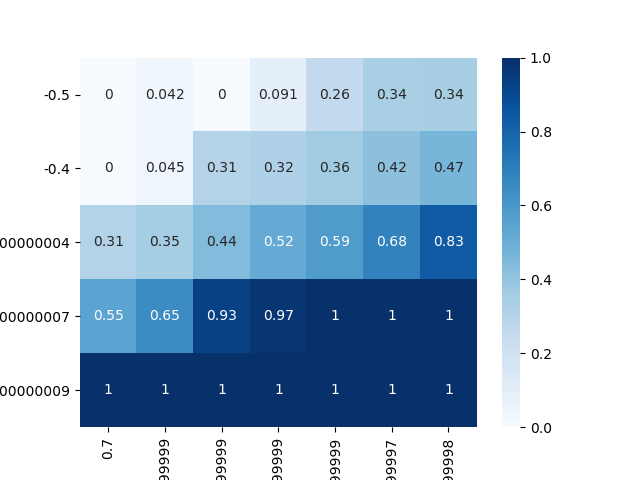
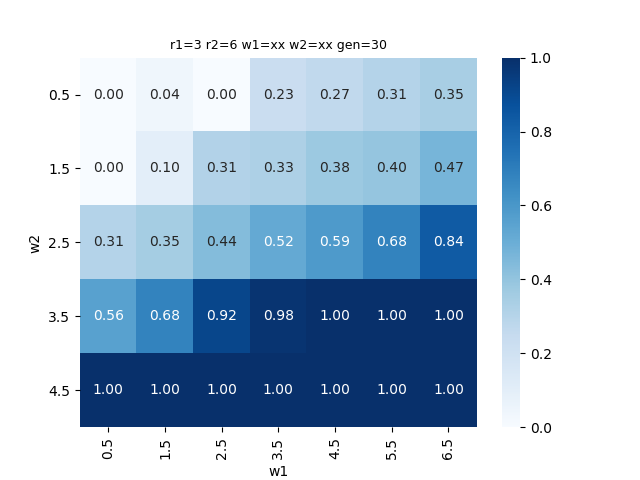
グラフに表示

diff --git a/Young/Young_finger.py b/Young/Young_finger.py
@@ -2,16 +2,17 @@ import cv2
 from scipy import signal
 import numpy as np
 from Young.Young_check import Young_Check
+import matplotlib.pyplot as plt
 
 
 class Young_Finger(Young_Check):
-    __r = 0.001
+    __r_fn = 0.001
+    __r_rd = 0.1
 
     def __init__(self, r1, r2, w1, w2, init_alive_prob=0.5):
         super(Young_Check, self).__init__(r1, r2, w1, w2, init_alive_prob)
         self.img_finger = self.load_text("../data/save.txt")
         self.__noise = np.zeros((self.width, self.height))
-        # Todo: randomなノイズに変更する
         self.noise()
 
     def noise(self):
@@ -20,8 +21,11 @@ class Young_Finger(Young_Check):
         self.__noise = v.reshape(self.height, self.width)
         return self.__noise
 
-    def set_r(self, r):
-        self.__r = r
+    def set_r_fn(self, r):
+        self.__r_fn = r
+
+    def set_r_rd(self, r):
+        self.__r_rd = r
 
     def next_generation(self):
         """
@@ -29,12 +33,29 @@ class Young_Finger(Young_Check):
         :return: ndarray  state
         """
         N = signal.correlate2d(self.state, self.mask, mode="same", boundary="wrap")
-        N = N * (1 - self.__r) + self.img_finger * self.__r + self.__noise * self.__r
+        N = N * (1 - self.__r_fn) + self.img_finger * self.__r_fn + self.noise() * self.__r_rd
         self.state = N > 0
         return self.state
 
 
 BackendError = type('BackendError', (Exception,), {})
+
+
+def change(r_fn, r_rd):
+    gen = 100
+    fig, ax = plt.subplots(ncols=r_fn.size, nrows=r_rd.size,
+                           sharex="col", sharey="all",
+                           facecolor="lightgray")
+    fig.suptitle('r1={0:.2g} r2={1:.2g} w1={2:.2g} w2={3:.2g} gen={4:.2g}'.format(3, 6, 1.0, -0.3, gen), fontsize=9)
+    for aline, r1 in zip(ax, r_fn):
+        for elem, r2 in zip(aline, r_rd):
+            YP = Young_Finger(3, 6, 1.0, -0.3, 0.08)
+            YP.set_r_fn(r1)
+            YP.set_r_rd(r2)
+            elem.imshow(YP.far_generation(gen), cmap='pink')
+            elem.set_title("r_fn={0:.2g} r_rd={1:.2g}".format(r1, r2), fontsize=7)
+    plt.savefig("result.png")
+    plt.show()
 
 
 def is_visible(winname):
@@ -53,7 +74,7 @@ def is_visible(winname):
         return False
 
 
-def main():
+def show_cv2():
     winname = "finger_print"
     YP = Young_Finger(3, 6, 1.0, -0.3, 0.08)
     # ret = 0
@@ -84,6 +105,11 @@ def main():
     cv2.destroyAllWindows()
     # cv2.waitKey()  # macの都合
     return 0
+
+
+def main():
+    r = np.array([0.3, 0.1, 0.01, 0.001])
+    change(r, r)
 
 
 if __name__ == "__main__":

diff --git a/Young/Young_check.py b/Young/Young_check.py
@@ -56,6 +56,8 @@ def heat_map(para1_name, para1, para2_name, para2):
     :param para2: 実験するパラメーターの幅のarray
     :return:
     """
+    pd.options.display.float_format = '{:.2f}'.format
+    pd.options.display.float_format = '{:.2f}'.format
     param_df = ({'r1': 3,
                  'r2': 6,
                  'w1': 1.0,
@@ -77,9 +79,14 @@ def heat_map(para1_name, para1, para2_name, para2):
                                index=[para1_name, para2_name, 'score'])
             df = df.append(tmp_se, ignore_index=True)
     print(df)
+
+    print(type(param_df['w1']))
     df_pivot = pd.pivot_table(data=df, values='score',
                               columns=para1_name, index=para2_name, aggfunc=np.mean)
-    sns.heatmap(df_pivot, cmap='Blues', annot=True)
+    sns.heatmap(df_pivot, cmap='Blues', annot=True, fmt='.2f')
+    plt.gca().yaxis.set_major_formatter(plt.FormatStrFormatter('%.1f'))  # y軸小数点以下1桁表示
+    plt.gca().xaxis.set_major_formatter(plt.FormatStrFormatter('%.1f'))  # y軸小数点以下1桁表示
+    plt.title('r1={0:.2g} r2={1:.2g} w1=xx w2=xx gen={2:.2g}'.format(3, 6, 30), fontsize=9)
     plt.savefig('../data/' + para1_name + '_' + para2_name + '.png')
     plt.show()
 
@@ -95,23 +102,22 @@ def show_list_YP(YP, width=5, height=5):
 
 
 def change_r1_w1_YP():
-    textname = "../data/save.txt"
-    count = 0
     a = np.arange(3, 4, 0.2)
     b = np.arange(0.5, 1.0, 0.1)
-    for r1 in a:
-        for w1 in b:
-            count += 1
+    fig, ax = plt.subplots(ncols=a.size, nrows=b.size,
+                           sharex="col", sharey="all",
+                           facecolor="lightgray")
+    for aline, r1 in zip(ax, a):
+        for elem, w1 in zip(aline, b):
             YP = Young_Pattern(r1, r1 * 2, w1, -0.25, 0.08)
-            # YP.init_state(50, 50)
-            YP.load_text(textname)
-            plt.subplot(a.size, b.size, count)
-            plt.imshow(YP.far_generation(20), cmap='pink', vmin=0, vmax=1)
+            YP.init_state(50, 50)
+            elem.imshow(YP.far_generation(20), cmap='pink')
     plt.show()
 
 
 def main():
     heat_map('w1', np.arange(0.7, 1.3, 0.1), 'w2', np.arange(-0.5, -0., 0.1))
+    # change_r1_w1_YP()
 
     # change_r1_w1_YP()
     # textname = "../data/save.txt"

diff --git a/README.md b/README.md
@@ -12,7 +12,6 @@
 - picture_edit/mosaic_pic 画像の編集
 - Young/Young_pattern チューリングパターン
 - Young/Young_check チェック用便利関数
-- Young/Young_check チェック用便利関数
 - Young/Young_finger 画像を引っ張ったりノイズを出して指紋に近づける
 - Young/Young_mask 大きなマスクをかけてみる
 
